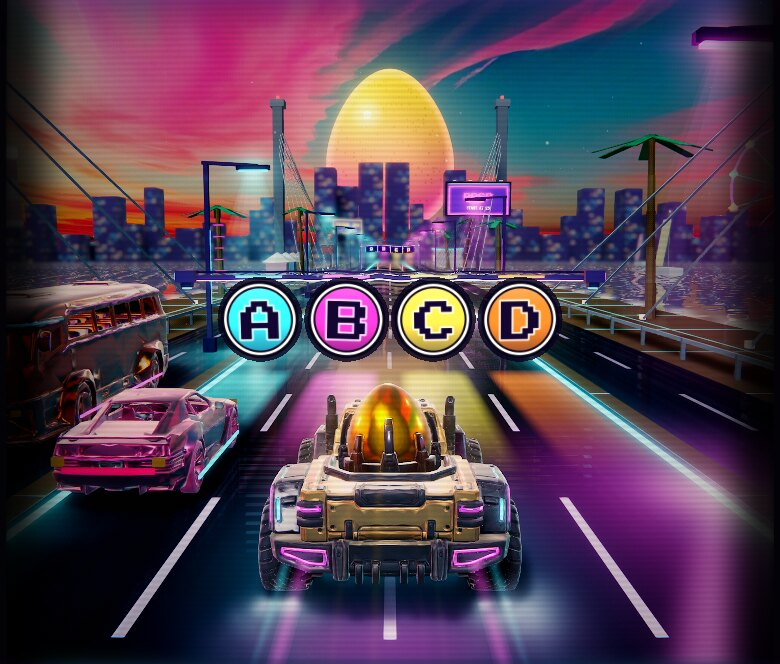
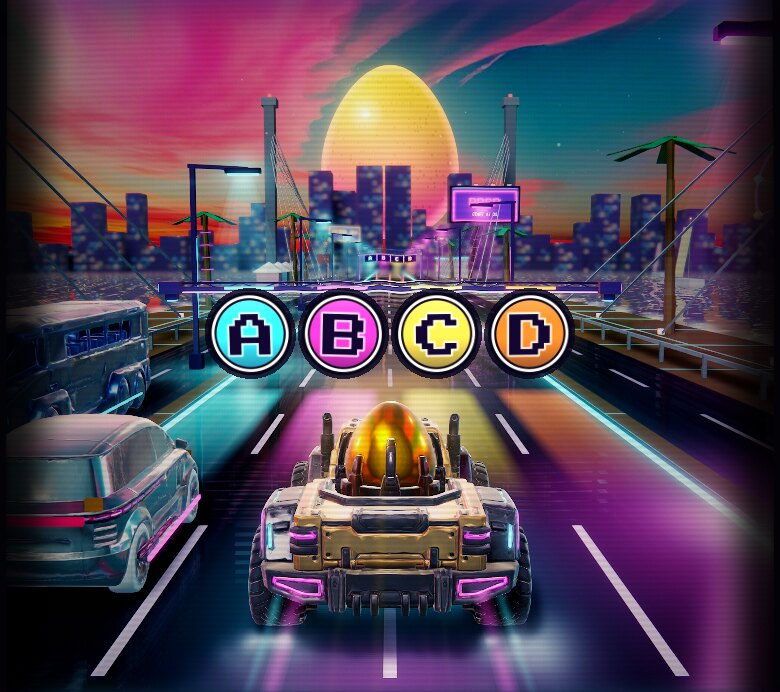
Traffic: fit the remade car and bus (Phase 6)
The car is a compact city car now, taller and shorter than the coupe it
replaced: its length 4.5 -> 3.6, with its own room in its lane, shadow and
badge box. Its red tail bar sits on the model's own light bar; corner lamps
stand on the skin of a rounded nose or tail, and a narrow nose's lamps go out
toward its corners. The manifest has the new file sizes. The traffic
scenario's paced car stands nearer (it is taller, and hid under a badge).
Re-captured the traffic by day, by night and a near miss. Served only: from
disk nothing changes. Regression racer IDENTICAL both ways.

Claude-Session: https://claude.ai/code/session_01SXN4PWw2h7NprrScNwTTGU

diff --git a/arcade/src/js/03a-files.js b/arcade/src/js/03a-files.js
@@ -1,3 +1,3 @@
 // Written by tools/manifest.js: every file under arcade/assets the page may fetch (and its size), the cues inside each
 // sound sprite ([start, length, level, how far the music ducks]), the music and its loop points, and what each screen needs.
-const INR_FILES = {"files":{"audio/music-blaster.mp3":1070543,"audio/music-boss.mp3":1117563,"audio/music-calm.mp3":981204,"audio/music-exam.mp3":1020910,"audio/music-finalboss.mp3":1172420,"audio/music-hub.mp3":1064273,"audio/music-memory.mp3":1163538,"audio/music-racer.mp3":834396,"audio/music-title.mp3":980681,"audio/sfx-bosses.mp3":1370010,"audio/sfx-combat.mp3":1142535,"audio/sfx-core.mp3":1755473,"audio/sfx-hub.mp3":124387,"audio/sfx-racer.mp3":477301,"audio/voice.mp3":1300002,"models/boss-1.glb":3140792,"models/boss-10.glb":3796976,"models/boss-11.glb":3509160,"models/boss-2.glb":3566072,"models/boss-3.glb":3595764,"models/boss-4.glb":3348936,"models/boss-5.glb":3189180,"models/boss-6.glb":3595196,"models/boss-7.glb":4230104,"models/boss-8.glb":2816424,"models/boss-9.glb":3108684,"models/boss-all.glb":2599980,"models/demon.glb":3372816,"models/mini-proctor.glb":209468,"models/mini-starfighter.glb":299432,"models/mini-warrig.glb":342752,"models/prop-bus.glb":230192,"models/prop-cabinet.glb":593040,"models/prop-car.glb":207412,"models/prop-coin.glb":130000,"models/prop-deck.glb":299912,"models/prop-medal.glb":239160,"models/prop-podium.glb":259308,"models/prop-rock.glb":271552,"models/prop-rock2.glb":239280,"models/prop-ship-a.glb":282888,"models/prop-ship-b.glb":252920,"models/prop-ship-c.glb":258308,"models/prop-stand.glb":196180,"models/prop-tome.glb":232544,"models/prop-trophy.glb":216240,"models/prop-van.glb":200544,"models/prop-vault.glb":426808,"models/starfighter.glb":3274568,"models/warrig.glb":3043684,"sky/blaster-deep-1.webp":763694,"sky/blaster-deep-4.webp":1027402,"sky/blaster-deep-5.webp":758694,"sky/boss-storm-b.webp":192868,"sky/boss-storm.webp":941214,"sky/boss-void.webp":449726,"sky/exam-moon.webp":716746,"sky/guide-archive.webp":758564,"sky/hub-hall-b.webp":84256,"sky/hub-hall.webp":82552,"sky/racer-dawn.webp":150958,"sky/racer-day.webp":205800,"sky/racer-night.webp":412294,"sky/racer-sunset-b.webp":519706,"sky/racer-sunset.webp":284332,"sky/title-dusk-b.webp":461748,"sky/title-dusk.webp":216594,"sky/vault-gold.webp":710390,"ui/bosses.webp":84156,"ui/icons.webp":27040},"sprites":{"core":{"file":"audio/sfx-core.mp3","cues":{"impact_good":[[0.5,0.8,1.188,0],[1.37,0.8,0.9,0],[2.2401,0.4288,0.961,0],[2.7389,0.8,0.867,0]],"impact_big":[[3.6089,1.28,1.129,0.7],[4.959,0.8623,1.212,0.7],[5.8913,1.28,0.991,0.7],[7.2413,1.28,1,0.7]],"impact_reject":[[8.5914,0.5025,0.8,0],[9.1639,0.5686,0.631,0],[9.8025,0.6,1.05,0],[10.4726,0.5451,1.25,0]],"impact_hull":[[11.0877,0.88,1.053,0],[12.0378,0.88,0.841,0],[12.9878,0.88,0.9,0],[13.9378,0.88,1.083,0]],"impact_shield":[[14.8879,0.88,0.8,0],[15.8379,0.88,1.151,0],[16.788,0.5621,0.769,0],[17.42,0.88,0.841,0]],"impact_metal":[[18.3701,0.48,0.856,0],[18.9201,0.48,0.657,0],[19.4702,0.48,0.7,0],[20.0202,0.48,0.953,0]],"explosion_small":[[20.5703,1.2,1.318,0],[21.8403,1.2,0.85,0],[23.1104,1.2,1,0],[24.3804,1.2,0.81,0]],"explosion_big":[[25.6505,2.2,1.351,0.6],[27.9205,2.2,1.245,0.6],[30.1905,2.0646,1,0.6],[32.3251,2.2,0.989,0.6]],"explosion_huge":[[34.5952,3.56,0.908,0.45],[38.2252,3.56,1,0.45],[41.8553,3.56,1.081,0.45]],"debris":[[45.4853,0.7887,0.6,0],[46.344,1.1321,0.698,0],[47.5461,1.48,0.591,0],[49.0961,1.48,0.96,0]],"charge_up":[[50.6462,0.5924,0.6,0],[51.3086,0.6803,0.743,0],[52.0589,0.6803,0.737,0],[52.8092,0.6803,0.576,0]],"charge_long":[[53.5595,1.6,0.664,0],[55.2295,1.6,0.566,0],[56.8996,1.6,0.65,0],[58.5696,1.6,0.738,0]],"warning":[[60.2397,0.6,0.576,0],[60.9097,0.6,0.877,0],[61.5798,0.6,0.6,0]],"lock_on":[[62.2498,0.48,0.567,0],[62.7999,0.48,0.497,0],[63.3499,0.48,0.5,0]],"slowmo_in":[[63.9,1.08,0.7,0],[65.05,1.08,0.889,0],[66.2,1.08,0.652,0]],"player_hit":[[67.3501,0.88,1.002,0],[68.3001,0.88,0.9,0],[69.2502,0.88,1.039,0],[70.2002,0.88,0.655,0]],"heart_lost":[[71.1503,0.8,0.802,0],[72.0203,0.8,0.55,0],[72.8904,0.8,0.7,0]],"shield_down":[[73.7604,0.7352,1.022,0],[74.5656,1,0.54,0],[75.6356,0.9544,0.75,0]],"reward":[[76.66,1.2,0.563,0],[77.9301,1.2,0.789,0],[79.2001,1.2,0.772,0],[80.4702,1.2,0.7,0]],"sting_correct":[[81.7402,0.8,0.6,0],[82.6103,0.8,0.467,0],[83.4803,0.8,0.758,0],[84.3504,0.8,0.65,0]],"sting_wrong":[[85.2204,0.6247,0.747,0],[85.9151,0.6803,0.444,0],[86.6654,0.4344,0.649,0],[87.1698,0.6803,0.6,0]],"ui_click":[[87.9201,0.48,0.64,0],[88.4701,0.121,0.413,0],[88.6612,0.48,0.283,0],[89.2112,0.2016,0.4,0]],"ui_select":[[89.4829,0.48,0.519,0],[90.0329,0.48,0.5,0],[90.5829,0.48,0.419,0]],"ui_back":[[91.133,0.3879,0.382,0],[91.5909,0.48,0.619,0],[92.141,0.48,0.45,0]],"coin_insert":[[92.691,1,0.7,0],[93.761,0.7125,0.904,0],[94.5436,1,0.656,0]],"powerup":[[95.6136,1,0.717,0],[96.6837,1,0.485,0],[97.7537,1,0.6,0]],"fanfare":[[98.8238,2,0.7,0],[100.8938,1.3249,0.888,0],[102.2888,2,0.58,0]],"gameover":[[104.3588,2.2,0.7,0],[106.6288,2.2,0.654,0],[108.8989,2.2,0.911,0]],"crowd_cheer":[[111.1689,2,0.522,0],[113.239,2,0.555,0],[115.309,2,0.55,0],[117.3791,2,0.641,0]],"alarm":[[119.5691,2.25,0.4,0]],"charge_hum":[[122.1291,3,0.4,0]],"boom":[[20.5703,1.2,1.318,0],[21.8403,1.2,0.85,0],[23.1104,1.2,1,0],[24.3804,1.2,0.81,0]],"bigboom":[[25.6505,2.2,1.351,0.6],[27.9205,2.2,1.245,0.6],[30.1905,2.0646,1,0.6],[32.3251,2.2,0.989,0.6]],"hit":[[67.3501,0.88,1.002,0],[68.3001,0.88,0.9,0],[69.2502,0.88,1.039,0],[70.2002,0.88,0.655,0]],"correct":[[81.7402,0.8,0.6,0],[82.6103,0.8,0.467,0],[83.4803,0.8,0.758,0],[84.3504,0.8,0.65,0]],"wrong":[[85.2204,0.6247,0.747,0],[85.9151,0.6803,0.444,0],[86.6654,0.4344,0.649,0],[87.1698,0.6803,0.6,0]],"coin":[[92.691,1,0.7,0],[93.761,0.7125,0.904,0],[94.5436,1,0.656,0]],"blip":[[87.9201,0.48,0.64,0],[88.4701,0.121,0.413,0],[88.6612,0.48,0.283,0],[89.2112,0.2016,0.4,0]],"select":[[89.4829,0.48,0.519,0],[90.0329,0.48,0.5,0],[90.5829,0.48,0.419,0]],"back":[[91.133,0.3879,0.382,0],[91.5909,0.48,0.619,0],[92.141,0.48,0.45,0]],"shield":[[14.8879,0.88,0.8,0],[15.8379,0.88,1.151,0],[16.788,0.5621,0.769,0],[17.42,0.88,0.841,0]],"win":[[98.8238,2,0.7,0],[100.8938,1.3249,0.888,0],[102.2888,2,0.58,0]],"demonboom":[[25.6505,2.2,1.351,0.6],[27.9205,2.2,1.245,0.6],[30.1905,2.0646,1,0.6],[32.3251,2.2,0.989,0.6]],"demonfinale":[[34.5952,3.56,0.908,0.45],[38.2252,3.56,1,0.45],[41.8553,3.56,1.081,0.45]],"demoncharge":[[50.6462,0.5924,0.6,0],[51.3086,0.6803,0.743,0],[52.0589,0.6803,0.737,0],[52.8092,0.6803,0.576,0]],"bossblast":[[34.5952,3.56,0.908,0.45],[38.2252,3.56,1,0.45],[41.8553,3.56,1.081,0.45]],"bosscharge":[[53.5595,1.6,0.664,0],[55.2295,1.6,0.566,0],[56.8996,1.6,0.65,0],[58.5696,1.6,0.738,0]],"shatter":[[71.1503,0.8,0.802,0],[72.0203,0.8,0.55,0],[72.8904,0.8,0.7,0]],"clunk":[[18.3701,0.48,0.856,0],[18.9201,0.48,0.657,0],[19.4702,0.48,0.7,0],[20.0202,0.48,0.953,0]]}},"combat":{"file":"audio/sfx-combat.mp3","cues":{"laser_fire":[[0.5,0.6803,0.716,0],[1.2503,0.6803,0.816,0],[2.0006,0.6803,0.635,0],[2.7509,0.6803,0.7,0]],"laser_heavy":[[3.5012,0.3983,1.235,0],[3.9695,1.2,0.85,0],[5.2396,1.2,1.134,0],[6.5096,1.2,0.587,0]],"plasma_fire":[[7.7797,0.3968,0.75,0],[8.2465,0.8,0.701,0],[9.1165,0.3136,1.074,0],[9.5001,0.8,0.926,0]],"shell":[[10.3702,0.3562,0.24,0],[10.7964,0.48,0.3,0],[11.3464,0.3549,0.32,0],[11.7714,0.4354,0.314,0]],"beam_fire":[[12.2768,1.6,0.996,0],[13.9468,1.6,0.878,0],[15.6169,1.6,0.632,0],[17.2869,1.6,0.8,0]],"missile_fire":[[18.957,1,0.89,0],[20.027,1,0.702,0],[21.0971,1,0.496,0],[22.1671,1,0.7,0]],"missile_hit":[[23.2371,1,0.602,0],[24.3072,1,0.828,0],[25.3772,0.5664,0.8,0],[26.0137,1,0.931,0]],"volley_fire":[[27.0837,1,0.89,0],[28.1538,1,1.066,0],[29.2238,1,0.75,0],[30.2939,1,0.591,0]],"wave_fire":[[31.3639,1.48,0.977,0],[32.9139,1.48,0.744,0],[34.464,1.2503,0.85,0],[35.7843,1.091,1.05,0]],"slam":[[36.9454,1.28,0.803,0],[38.2954,1.28,1,0],[39.6454,1.28,1.03,0],[40.9955,0.7954,1.281,0]],"boss_roar":[[41.8609,2.2,1.066,0.6],[44.131,2.2,1.06,0.6],[46.401,2.2,0.95,0.6],[48.6711,2.2,0.846,0.6]],"boss_hurt":[[50.9411,0.88,0.846,0],[51.8912,0.88,0.919,0],[52.8412,0.88,0.693,0],[53.7912,0.7878,0.8,0]],"boss_stagger":[[54.6491,0.8735,0.548,0],[55.5926,1.3102,0.82,0],[56.9727,1.1637,0.8,0],[58.2065,0.9167,0.888,0]],"boss_break":[[59.1932,1,0.74,0],[60.2633,0.5817,1.257,0],[60.915,1,1.004,0],[61.985,0.7122,0.8,0]],"boss_death":[[62.7673,3.2,1.016,0.5],[66.0373,3.2,1,0.5],[69.3074,3.2,0.919,0.5]],"warp":[[72.5774,1.6395,0.695,0],[74.2869,1.5159,0.7,0],[75.8727,1.2935,0.857,0]],"engine_ship":[[77.3563,4,0.35,0]],"laser":[[0.5,0.6803,0.716,0],[1.2503,0.6803,0.816,0],[2.0006,0.6803,0.635,0],[2.7509,0.6803,0.7,0]],"shot":[[7.7797,0.3968,0.75,0],[8.2465,0.8,0.701,0],[9.1165,0.3136,1.074,0],[9.5001,0.8,0.926,0]],"demonroar":[[41.8609,2.2,1.066,0.6],[44.131,2.2,1.06,0.6],[46.401,2.2,0.95,0.6],[48.6711,2.2,0.846,0.6]],"demonhit":[[50.9411,0.88,0.846,0],[51.8912,0.88,0.919,0],[52.8412,0.88,0.693,0],[53.7912,0.7878,0.8,0]],"demonshed":[[59.1932,1,0.74,0],[60.2633,0.5817,1.257,0],[60.915,1,1.004,0],[61.985,0.7122,0.8,0]],"demonbreak":[[59.1932,1,0.74,0],[60.2633,0.5817,1.257,0],[60.915,1,1.004,0],[61.985,0.7122,0.8,0]],"bossroar":[[41.8609,2.2,1.066,0.6],[44.131,2.2,1.06,0.6],[46.401,2.2,0.95,0.6],[48.6711,2.2,0.846,0.6]],"bosssmash":[[36.9454,1.28,0.803,0],[38.2954,1.28,1,0],[39.6454,1.28,1.03,0],[40.9955,0.7954,1.281,0]]}},"racer":{"file":"audio/sfx-racer.mp3","cues":{"crash":[[0.5,1.2,0.971,0],[1.77,1.2,1.085,0],[3.0401,1.2,1,0],[4.3101,1.2,1.126,0]],"crash_glass":[[5.5802,0.88,1.04,0],[6.5302,0.5965,0.944,0],[7.1968,0.88,0.702,0],[8.1468,0.88,0.8,0]],"skid":[[9.0968,1.2,0.74,0],[10.3669,1.2,0.698,0],[11.6369,1.2,0.721,0],[12.907,1.2,0.7,0]],"near_miss":[[14.177,0.6132,0.624,0],[14.8602,0.5831,0.6,0],[15.5134,0.6803,0.617,0],[16.2637,0.584,0.598,0]],"boost":[[16.9177,1.48,0.655,0],[18.4677,1.48,0.85,0],[20.0178,1.48,1.179,0],[21.5678,1.3965,1.349,0]],"gate_pass":[[23.0343,0.8,0.6,0],[23.9044,0.8,0.672,0],[24.7744,0.8,0.58,0],[25.6444,0.6858,0.817,0]],"engine_car":[[26.5202,4,0.4,0]],"boost_flame":[[30.8302,3,0.6,0]]}},"bosses":{"file":"audio/sfx-bosses.mp3","cues":{"roar_1":[[0.5,1.4253,0.95,0],[1.9953,2.4,0.914,0],[4.4653,2.4,1.143,0]],"roar_2":[[6.9354,2.4,1.073,0],[9.4054,2.4,0.95,0],[11.8755,2.4,0.888,0]],"roar_3":[[14.3455,2.4,0.761,0],[16.8156,2.0441,0.95,0],[18.9296,2.0109,1.223,0]],"roar_4":[[21.0106,2.4,0.95,0],[23.4806,2.3451,0.986,0],[25.8957,2.3711,0.925,0]],"roar_5":[[28.3368,2.4,1.05,0],[30.8069,1.956,0.879,0],[32.8329,1.6467,0.95,0]],"roar_6":[[34.5496,2.2382,0.975,0],[36.8579,2.4,0.95,0],[39.3279,2.4,0.91,0]],"roar_7":[[41.798,2.4,0.95,0],[44.268,2.0929,0.815,0],[46.4309,2.3395,1.077,0]],"roar_8":[[48.8404,1.2115,1.117,0],[50.1219,2.4,0.597,0],[52.592,2.4,0.95,0]],"roar_9":[[55.062,2.4,0.944,0],[57.532,2.4,0.95,0],[60.0021,2.4,1.371,0]],"roar_10":[[62.4721,2.4,0.69,0],[64.9422,2.4,1.019,0],[67.4122,2.4,0.95,0]],"roar_11":[[69.8823,1.9586,0.798,0],[71.9109,2.2792,0.95,0],[74.26,2.4,1.221,0]],"roar_all":[[76.7301,2.76,1.043,0],[79.5601,2.76,1,0],[82.3902,2.76,0.88,0]],"boss_land":[[85.2202,1.48,1,0],[86.7703,1.48,1.363,0],[88.3203,0.5899,1.016,0],[88.9802,1.48,0.946,0]],"boss_servo":[[90.5303,0.5033,0.484,0],[91.1036,0.5468,0.517,0],[91.7203,0.6803,0.45,0],[92.4706,0.6803,0.431,0]],"boss_power":[[93.2209,1.3683,0.7,0],[94.6592,1.2959,0.684,0],[96.025,1.6993,1.12,0]]}},"hub":{"file":"audio/sfx-hub.mp3","cues":{"hub_hum":[[0.62,8,0.5,0]]}},"voice":{"file":"audio/voice.mp3","cues":{"vo:$1 500 000":[[0.5,1.7779,1,0]],"vo:$100 000":[[2.3479,2.7178,1,0]],"vo:$250 000":[[5.1356,1.7738,1,0]],"vo:$500 000":[[6.9795,1.2373,1,0]],"vo:age 25 go":[[8.2867,1.9616,1,0]],"vo:announcer on":[[10.3184,1.0095,1,0]],"vo:begin":[[11.3979,0.9295,1,0]],"vo:blue chip":[[12.3973,0.9892,1,0]],"vo:boss defeated":[[13.4565,1.2051,1,0]],"vo:boss incoming":[[14.7316,1.7363,1,0]],"vo:boss rush":[[16.538,1.6046,1,0]],"vo:bull run":[[18.2126,0.9604,1,0]],"vo:chapter complete":[[19.243,1.106,1,0]],"vo:compounding":[[20.419,1.193,1,0]],"vo:critical":[[21.682,1.117,1,0]],"vo:deck cleared":[[22.869,1.39,1,0]],"vo:defeated":[[24.3291,1.1138,1,0]],"vo:enraged":[[25.5129,1.4505,1,0]],"vo:exam passed":[[27.0333,1.3676,1,0]],"vo:final boss":[[28.4709,1.318,1,0]],"vo:final boss destroyed":[[29.8589,2.75,1,0]],"vo:final exam":[[32.6789,1.8518,1,0]],"vo:final wave":[[34.6007,1.5771,1,0]],"vo:forced retirement":[[36.2478,1.4642,1,0]],"vo:game over":[[37.782,1.4106,1,0]],"vo:go":[[39.2626,0.6599,1,0]],"vo:group golem":[[39.9924,1.791,1,0]],"vo:happy retirement":[[41.8535,1.6602,1,0]],"vo:inflation titan":[[43.5837,2.43,1,0]],"vo:insert coin":[[46.0837,1.128,1,0]],"vo:last shield":[[47.2817,1.5958,1,0]],"vo:lightning":[[48.9475,1.15,1,0]],"vo:longevity lich":[[50.1676,1.5484,1,0]],"vo:lord intestate":[[51.786,1.7993,1,0]],"vo:memory bank":[[53.6553,1.1962,1,0]],"vo:millionaire":[[54.9215,1.6842,1,0]],"vo:nest egg run":[[56.6756,1.6205,1,0]],"vo:new high score":[[58.3661,1.7269,1,0]],"vo:not yet":[[60.163,0.933,1,0]],"vo:passed":[[61.1661,0.8735,1,0]],"vo:patrimony phantom":[[62.1095,1.8513,1,0]],"vo:perfect":[[64.0308,0.9316,1,0]],"vo:perilmonger":[[65.0324,1.47,1,0]],"vo:probate tollgate":[[66.5724,1.6925,1,0]],"vo:product pusher":[[68.3349,1.6875,1,0]],"vo:quick draw":[[70.0924,1.2579,1,0]],"vo:rank up":[[71.4204,1.07,1,0]],"vo:ready":[[72.5604,0.567,1,0]],"vo:retired a millionaire":[[73.1974,2.1487,1,0]],"vo:risk blaster":[[75.4161,1.8748,1,0]],"vo:select your game":[[77.3608,1.2985,1,0]],"vo:shield down":[[78.7294,1.2631,1,0]],"vo:solvency specter":[[80.0625,1.996,1,0]],"vo:stage clear":[[82.1285,1.3893,1,0]],"vo:strategy guide":[[83.5878,1.3867,1,0]],"vo:the fine print":[[85.0444,1.3475,1,0]],"vo:the proctor":[[86.4619,1.1939,1,0]],"vo:trophy unlocked":[[87.7258,1.2972,1,0]],"vo:undue influencer":[[89.093,2.3957,1,0]],"vo:warning":[[91.5587,0.65,1,0]],"vo:wave 1":[[92.2786,1.63,1,0]],"vo:wave 10":[[93.9787,1.1341,1,0]],"vo:wave 2":[[95.1828,0.9793,1,0]],"vo:wave 3":[[96.2322,1.47,1,0]],"vo:wave 4":[[97.7722,1.2106,1,0]],"vo:wave 5":[[99.0528,1.3478,1,0]],"vo:wave 6":[[100.4706,1.4679,1,0]],"vo:wave 7":[[102.0085,1.1244,1,0]],"vo:wave 8":[[103.2029,1.55,1,0]],"vo:wave 9":[[104.823,1.4247,1,0]],"vo:welcome":[[106.3176,1.87,1,0]],"vo:stand by":[[14.7316,1.7363,1,0]]}}},"music":{"exam":{"file":"audio/music-exam.mp3","loop":[0.7,50.7104],"vol":1},"memory":{"file":"audio/music-memory.mp3","loop":[0.7,57.8497],"vol":1},"title":{"file":"audio/music-title.mp3","loop":[0.7,48.7048],"vol":1},"hub":{"file":"audio/music-hub.mp3","loop":[0.7,52.8853],"vol":1},"calm":{"file":"audio/music-calm.mp3","loop":[0.7,48.718],"vol":1},"boss":{"file":"audio/music-boss.mp3","loop":[0.7,55.5493],"vol":1},"finalboss":{"file":"audio/music-finalboss.mp3","loop":[0.7,58.277],"vol":1},"racer":{"file":"audio/music-racer.mp3","loop":[0.7,41.3918],"vol":1},"blaster":{"file":"audio/music-blaster.mp3","loop":[0.7,53.2],"vol":1}},"sets":{"blaster":["model:starfighter","model:demon","model:prop-ship-a","model:prop-ship-b","model:prop-ship-c","model:prop-rock","model:prop-rock2","sky:blaster-deep-1","sky:blaster-deep-4","sky:blaster-deep-5","sfx:core","sfx:combat","sfx:voice","music:blaster"],"racer":["model:warrig","model:prop-car","model:prop-van","model:prop-bus","sky:racer-dawn","sky:racer-day","sky:racer-sunset","sky:racer-sunset-b","sky:racer-night","sfx:core","sfx:racer","sfx:voice","music:racer"],"boss":["sky:boss-storm","sky:boss-storm-b","sky:boss-void","sfx:core","sfx:combat","sfx:bosses","sfx:voice","music:boss","music:finalboss"],"hub":["model:prop-cabinet","model:mini-starfighter","model:mini-warrig","model:mini-proctor","model:prop-deck","model:prop-podium","model:prop-tome","model:prop-trophy","model:prop-medal","model:prop-coin","model:prop-stand","model:prop-vault","sky:hub-hall","sky:hub-hall-b","ui:bosses","ui:icons"],"hubsound":["sfx:core","sfx:hub","sfx:voice","music:hub"],"title":["sky:title-dusk","sky:title-dusk-b","sfx:core","sfx:voice","music:title"],"memory":["sky:vault-gold","model:prop-deck","model:prop-coin","sfx:core","sfx:voice","music:memory"],"exam":["sky:exam-moon","model:prop-podium","sfx:core","sfx:combat","sfx:voice","music:exam"],"guide":["sky:guide-archive","model:prop-tome","sfx:core","music:calm"]}};
+const INR_FILES = {"files":{"audio/music-blaster.mp3":1070543,"audio/music-boss.mp3":1117563,"audio/music-calm.mp3":981204,"audio/music-exam.mp3":1020910,"audio/music-finalboss.mp3":1172420,"audio/music-hub.mp3":1064273,"audio/music-memory.mp3":1163538,"audio/music-racer.mp3":834396,"audio/music-title.mp3":980681,"audio/sfx-bosses.mp3":1370010,"audio/sfx-combat.mp3":1142535,"audio/sfx-core.mp3":1755473,"audio/sfx-hub.mp3":124387,"audio/sfx-racer.mp3":477301,"audio/voice.mp3":1300002,"models/boss-1.glb":3140792,"models/boss-10.glb":3796976,"models/boss-11.glb":3509160,"models/boss-2.glb":3566072,"models/boss-3.glb":3595764,"models/boss-4.glb":3348936,"models/boss-5.glb":3189180,"models/boss-6.glb":3595196,"models/boss-7.glb":4230104,"models/boss-8.glb":2816424,"models/boss-9.glb":3108684,"models/boss-all.glb":2599980,"models/demon.glb":3372816,"models/mini-proctor.glb":209468,"models/mini-starfighter.glb":299432,"models/mini-warrig.glb":342752,"models/prop-bus.glb":223360,"models/prop-cabinet.glb":593040,"models/prop-car.glb":199868,"models/prop-coin.glb":130000,"models/prop-deck.glb":299912,"models/prop-medal.glb":239160,"models/prop-podium.glb":259308,"models/prop-rock.glb":271552,"models/prop-rock2.glb":239280,"models/prop-ship-a.glb":282888,"models/prop-ship-b.glb":252920,"models/prop-ship-c.glb":258308,"models/prop-stand.glb":196180,"models/prop-tome.glb":232544,"models/prop-trophy.glb":216240,"models/prop-van.glb":200544,"models/prop-vault.glb":426808,"models/starfighter.glb":3274568,"models/warrig.glb":3043684,"sky/blaster-deep-1.webp":763694,"sky/blaster-deep-4.webp":1027402,"sky/blaster-deep-5.webp":758694,"sky/boss-storm-b.webp":192868,"sky/boss-storm.webp":941214,"sky/boss-void.webp":449726,"sky/exam-moon.webp":716746,"sky/guide-archive.webp":758564,"sky/hub-hall-b.webp":84256,"sky/hub-hall.webp":82552,"sky/racer-dawn.webp":150958,"sky/racer-day.webp":205800,"sky/racer-night.webp":412294,"sky/racer-sunset-b.webp":519706,"sky/racer-sunset.webp":284332,"sky/title-dusk-b.webp":461748,"sky/title-dusk.webp":216594,"sky/vault-gold.webp":710390,"ui/bosses.webp":84156,"ui/icons.webp":27040},"sprites":{"core":{"file":"audio/sfx-core.mp3","cues":{"impact_good":[[0.5,0.8,1.188,0],[1.37,0.8,0.9,0],[2.2401,0.4288,0.961,0],[2.7389,0.8,0.867,0]],"impact_big":[[3.6089,1.28,1.129,0.7],[4.959,0.8623,1.212,0.7],[5.8913,1.28,0.991,0.7],[7.2413,1.28,1,0.7]],"impact_reject":[[8.5914,0.5025,0.8,0],[9.1639,0.5686,0.631,0],[9.8025,0.6,1.05,0],[10.4726,0.5451,1.25,0]],"impact_hull":[[11.0877,0.88,1.053,0],[12.0378,0.88,0.841,0],[12.9878,0.88,0.9,0],[13.9378,0.88,1.083,0]],"impact_shield":[[14.8879,0.88,0.8,0],[15.8379,0.88,1.151,0],[16.788,0.5621,0.769,0],[17.42,0.88,0.841,0]],"impact_metal":[[18.3701,0.48,0.856,0],[18.9201,0.48,0.657,0],[19.4702,0.48,0.7,0],[20.0202,0.48,0.953,0]],"explosion_small":[[20.5703,1.2,1.318,0],[21.8403,1.2,0.85,0],[23.1104,1.2,1,0],[24.3804,1.2,0.81,0]],"explosion_big":[[25.6505,2.2,1.351,0.6],[27.9205,2.2,1.245,0.6],[30.1905,2.0646,1,0.6],[32.3251,2.2,0.989,0.6]],"explosion_huge":[[34.5952,3.56,0.908,0.45],[38.2252,3.56,1,0.45],[41.8553,3.56,1.081,0.45]],"debris":[[45.4853,0.7887,0.6,0],[46.344,1.1321,0.698,0],[47.5461,1.48,0.591,0],[49.0961,1.48,0.96,0]],"charge_up":[[50.6462,0.5924,0.6,0],[51.3086,0.6803,0.743,0],[52.0589,0.6803,0.737,0],[52.8092,0.6803,0.576,0]],"charge_long":[[53.5595,1.6,0.664,0],[55.2295,1.6,0.566,0],[56.8996,1.6,0.65,0],[58.5696,1.6,0.738,0]],"warning":[[60.2397,0.6,0.576,0],[60.9097,0.6,0.877,0],[61.5798,0.6,0.6,0]],"lock_on":[[62.2498,0.48,0.567,0],[62.7999,0.48,0.497,0],[63.3499,0.48,0.5,0]],"slowmo_in":[[63.9,1.08,0.7,0],[65.05,1.08,0.889,0],[66.2,1.08,0.652,0]],"player_hit":[[67.3501,0.88,1.002,0],[68.3001,0.88,0.9,0],[69.2502,0.88,1.039,0],[70.2002,0.88,0.655,0]],"heart_lost":[[71.1503,0.8,0.802,0],[72.0203,0.8,0.55,0],[72.8904,0.8,0.7,0]],"shield_down":[[73.7604,0.7352,1.022,0],[74.5656,1,0.54,0],[75.6356,0.9544,0.75,0]],"reward":[[76.66,1.2,0.563,0],[77.9301,1.2,0.789,0],[79.2001,1.2,0.772,0],[80.4702,1.2,0.7,0]],"sting_correct":[[81.7402,0.8,0.6,0],[82.6103,0.8,0.467,0],[83.4803,0.8,0.758,0],[84.3504,0.8,0.65,0]],"sting_wrong":[[85.2204,0.6247,0.747,0],[85.9151,0.6803,0.444,0],[86.6654,0.4344,0.649,0],[87.1698,0.6803,0.6,0]],"ui_click":[[87.9201,0.48,0.64,0],[88.4701,0.121,0.413,0],[88.6612,0.48,0.283,0],[89.2112,0.2016,0.4,0]],"ui_select":[[89.4829,0.48,0.519,0],[90.0329,0.48,0.5,0],[90.5829,0.48,0.419,0]],"ui_back":[[91.133,0.3879,0.382,0],[91.5909,0.48,0.619,0],[92.141,0.48,0.45,0]],"coin_insert":[[92.691,1,0.7,0],[93.761,0.7125,0.904,0],[94.5436,1,0.656,0]],"powerup":[[95.6136,1,0.717,0],[96.6837,1,0.485,0],[97.7537,1,0.6,0]],"fanfare":[[98.8238,2,0.7,0],[100.8938,1.3249,0.888,0],[102.2888,2,0.58,0]],"gameover":[[104.3588,2.2,0.7,0],[106.6288,2.2,0.654,0],[108.8989,2.2,0.911,0]],"crowd_cheer":[[111.1689,2,0.522,0],[113.239,2,0.555,0],[115.309,2,0.55,0],[117.3791,2,0.641,0]],"alarm":[[119.5691,2.25,0.4,0]],"charge_hum":[[122.1291,3,0.4,0]],"boom":[[20.5703,1.2,1.318,0],[21.8403,1.2,0.85,0],[23.1104,1.2,1,0],[24.3804,1.2,0.81,0]],"bigboom":[[25.6505,2.2,1.351,0.6],[27.9205,2.2,1.245,0.6],[30.1905,2.0646,1,0.6],[32.3251,2.2,0.989,0.6]],"hit":[[67.3501,0.88,1.002,0],[68.3001,0.88,0.9,0],[69.2502,0.88,1.039,0],[70.2002,0.88,0.655,0]],"correct":[[81.7402,0.8,0.6,0],[82.6103,0.8,0.467,0],[83.4803,0.8,0.758,0],[84.3504,0.8,0.65,0]],"wrong":[[85.2204,0.6247,0.747,0],[85.9151,0.6803,0.444,0],[86.6654,0.4344,0.649,0],[87.1698,0.6803,0.6,0]],"coin":[[92.691,1,0.7,0],[93.761,0.7125,0.904,0],[94.5436,1,0.656,0]],"blip":[[87.9201,0.48,0.64,0],[88.4701,0.121,0.413,0],[88.6612,0.48,0.283,0],[89.2112,0.2016,0.4,0]],"select":[[89.4829,0.48,0.519,0],[90.0329,0.48,0.5,0],[90.5829,0.48,0.419,0]],"back":[[91.133,0.3879,0.382,0],[91.5909,0.48,0.619,0],[92.141,0.48,0.45,0]],"shield":[[14.8879,0.88,0.8,0],[15.8379,0.88,1.151,0],[16.788,0.5621,0.769,0],[17.42,0.88,0.841,0]],"win":[[98.8238,2,0.7,0],[100.8938,1.3249,0.888,0],[102.2888,2,0.58,0]],"demonboom":[[25.6505,2.2,1.351,0.6],[27.9205,2.2,1.245,0.6],[30.1905,2.0646,1,0.6],[32.3251,2.2,0.989,0.6]],"demonfinale":[[34.5952,3.56,0.908,0.45],[38.2252,3.56,1,0.45],[41.8553,3.56,1.081,0.45]],"demoncharge":[[50.6462,0.5924,0.6,0],[51.3086,0.6803,0.743,0],[52.0589,0.6803,0.737,0],[52.8092,0.6803,0.576,0]],"bossblast":[[34.5952,3.56,0.908,0.45],[38.2252,3.56,1,0.45],[41.8553,3.56,1.081,0.45]],"bosscharge":[[53.5595,1.6,0.664,0],[55.2295,1.6,0.566,0],[56.8996,1.6,0.65,0],[58.5696,1.6,0.738,0]],"shatter":[[71.1503,0.8,0.802,0],[72.0203,0.8,0.55,0],[72.8904,0.8,0.7,0]],"clunk":[[18.3701,0.48,0.856,0],[18.9201,0.48,0.657,0],[19.4702,0.48,0.7,0],[20.0202,0.48,0.953,0]]}},"combat":{"file":"audio/sfx-combat.mp3","cues":{"laser_fire":[[0.5,0.6803,0.716,0],[1.2503,0.6803,0.816,0],[2.0006,0.6803,0.635,0],[2.7509,0.6803,0.7,0]],"laser_heavy":[[3.5012,0.3983,1.235,0],[3.9695,1.2,0.85,0],[5.2396,1.2,1.134,0],[6.5096,1.2,0.587,0]],"plasma_fire":[[7.7797,0.3968,0.75,0],[8.2465,0.8,0.701,0],[9.1165,0.3136,1.074,0],[9.5001,0.8,0.926,0]],"shell":[[10.3702,0.3562,0.24,0],[10.7964,0.48,0.3,0],[11.3464,0.3549,0.32,0],[11.7714,0.4354,0.314,0]],"beam_fire":[[12.2768,1.6,0.996,0],[13.9468,1.6,0.878,0],[15.6169,1.6,0.632,0],[17.2869,1.6,0.8,0]],"missile_fire":[[18.957,1,0.89,0],[20.027,1,0.702,0],[21.0971,1,0.496,0],[22.1671,1,0.7,0]],"missile_hit":[[23.2371,1,0.602,0],[24.3072,1,0.828,0],[25.3772,0.5664,0.8,0],[26.0137,1,0.931,0]],"volley_fire":[[27.0837,1,0.89,0],[28.1538,1,1.066,0],[29.2238,1,0.75,0],[30.2939,1,0.591,0]],"wave_fire":[[31.3639,1.48,0.977,0],[32.9139,1.48,0.744,0],[34.464,1.2503,0.85,0],[35.7843,1.091,1.05,0]],"slam":[[36.9454,1.28,0.803,0],[38.2954,1.28,1,0],[39.6454,1.28,1.03,0],[40.9955,0.7954,1.281,0]],"boss_roar":[[41.8609,2.2,1.066,0.6],[44.131,2.2,1.06,0.6],[46.401,2.2,0.95,0.6],[48.6711,2.2,0.846,0.6]],"boss_hurt":[[50.9411,0.88,0.846,0],[51.8912,0.88,0.919,0],[52.8412,0.88,0.693,0],[53.7912,0.7878,0.8,0]],"boss_stagger":[[54.6491,0.8735,0.548,0],[55.5926,1.3102,0.82,0],[56.9727,1.1637,0.8,0],[58.2065,0.9167,0.888,0]],"boss_break":[[59.1932,1,0.74,0],[60.2633,0.5817,1.257,0],[60.915,1,1.004,0],[61.985,0.7122,0.8,0]],"boss_death":[[62.7673,3.2,1.016,0.5],[66.0373,3.2,1,0.5],[69.3074,3.2,0.919,0.5]],"warp":[[72.5774,1.6395,0.695,0],[74.2869,1.5159,0.7,0],[75.8727,1.2935,0.857,0]],"engine_ship":[[77.3563,4,0.35,0]],"laser":[[0.5,0.6803,0.716,0],[1.2503,0.6803,0.816,0],[2.0006,0.6803,0.635,0],[2.7509,0.6803,0.7,0]],"shot":[[7.7797,0.3968,0.75,0],[8.2465,0.8,0.701,0],[9.1165,0.3136,1.074,0],[9.5001,0.8,0.926,0]],"demonroar":[[41.8609,2.2,1.066,0.6],[44.131,2.2,1.06,0.6],[46.401,2.2,0.95,0.6],[48.6711,2.2,0.846,0.6]],"demonhit":[[50.9411,0.88,0.846,0],[51.8912,0.88,0.919,0],[52.8412,0.88,0.693,0],[53.7912,0.7878,0.8,0]],"demonshed":[[59.1932,1,0.74,0],[60.2633,0.5817,1.257,0],[60.915,1,1.004,0],[61.985,0.7122,0.8,0]],"demonbreak":[[59.1932,1,0.74,0],[60.2633,0.5817,1.257,0],[60.915,1,1.004,0],[61.985,0.7122,0.8,0]],"bossroar":[[41.8609,2.2,1.066,0.6],[44.131,2.2,1.06,0.6],[46.401,2.2,0.95,0.6],[48.6711,2.2,0.846,0.6]],"bosssmash":[[36.9454,1.28,0.803,0],[38.2954,1.28,1,0],[39.6454,1.28,1.03,0],[40.9955,0.7954,1.281,0]]}},"racer":{"file":"audio/sfx-racer.mp3","cues":{"crash":[[0.5,1.2,0.971,0],[1.77,1.2,1.085,0],[3.0401,1.2,1,0],[4.3101,1.2,1.126,0]],"crash_glass":[[5.5802,0.88,1.04,0],[6.5302,0.5965,0.944,0],[7.1968,0.88,0.702,0],[8.1468,0.88,0.8,0]],"skid":[[9.0968,1.2,0.74,0],[10.3669,1.2,0.698,0],[11.6369,1.2,0.721,0],[12.907,1.2,0.7,0]],"near_miss":[[14.177,0.6132,0.624,0],[14.8602,0.5831,0.6,0],[15.5134,0.6803,0.617,0],[16.2637,0.584,0.598,0]],"boost":[[16.9177,1.48,0.655,0],[18.4677,1.48,0.85,0],[20.0178,1.48,1.179,0],[21.5678,1.3965,1.349,0]],"gate_pass":[[23.0343,0.8,0.6,0],[23.9044,0.8,0.672,0],[24.7744,0.8,0.58,0],[25.6444,0.6858,0.817,0]],"engine_car":[[26.5202,4,0.4,0]],"boost_flame":[[30.8302,3,0.6,0]]}},"bosses":{"file":"audio/sfx-bosses.mp3","cues":{"roar_1":[[0.5,1.4253,0.95,0],[1.9953,2.4,0.914,0],[4.4653,2.4,1.143,0]],"roar_2":[[6.9354,2.4,1.073,0],[9.4054,2.4,0.95,0],[11.8755,2.4,0.888,0]],"roar_3":[[14.3455,2.4,0.761,0],[16.8156,2.0441,0.95,0],[18.9296,2.0109,1.223,0]],"roar_4":[[21.0106,2.4,0.95,0],[23.4806,2.3451,0.986,0],[25.8957,2.3711,0.925,0]],"roar_5":[[28.3368,2.4,1.05,0],[30.8069,1.956,0.879,0],[32.8329,1.6467,0.95,0]],"roar_6":[[34.5496,2.2382,0.975,0],[36.8579,2.4,0.95,0],[39.3279,2.4,0.91,0]],"roar_7":[[41.798,2.4,0.95,0],[44.268,2.0929,0.815,0],[46.4309,2.3395,1.077,0]],"roar_8":[[48.8404,1.2115,1.117,0],[50.1219,2.4,0.597,0],[52.592,2.4,0.95,0]],"roar_9":[[55.062,2.4,0.944,0],[57.532,2.4,0.95,0],[60.0021,2.4,1.371,0]],"roar_10":[[62.4721,2.4,0.69,0],[64.9422,2.4,1.019,0],[67.4122,2.4,0.95,0]],"roar_11":[[69.8823,1.9586,0.798,0],[71.9109,2.2792,0.95,0],[74.26,2.4,1.221,0]],"roar_all":[[76.7301,2.76,1.043,0],[79.5601,2.76,1,0],[82.3902,2.76,0.88,0]],"boss_land":[[85.2202,1.48,1,0],[86.7703,1.48,1.363,0],[88.3203,0.5899,1.016,0],[88.9802,1.48,0.946,0]],"boss_servo":[[90.5303,0.5033,0.484,0],[91.1036,0.5468,0.517,0],[91.7203,0.6803,0.45,0],[92.4706,0.6803,0.431,0]],"boss_power":[[93.2209,1.3683,0.7,0],[94.6592,1.2959,0.684,0],[96.025,1.6993,1.12,0]]}},"hub":{"file":"audio/sfx-hub.mp3","cues":{"hub_hum":[[0.62,8,0.5,0]]}},"voice":{"file":"audio/voice.mp3","cues":{"vo:$1 500 000":[[0.5,1.7779,1,0]],"vo:$100 000":[[2.3479,2.7178,1,0]],"vo:$250 000":[[5.1356,1.7738,1,0]],"vo:$500 000":[[6.9795,1.2373,1,0]],"vo:age 25 go":[[8.2867,1.9616,1,0]],"vo:announcer on":[[10.3184,1.0095,1,0]],"vo:begin":[[11.3979,0.9295,1,0]],"vo:blue chip":[[12.3973,0.9892,1,0]],"vo:boss defeated":[[13.4565,1.2051,1,0]],"vo:boss incoming":[[14.7316,1.7363,1,0]],"vo:boss rush":[[16.538,1.6046,1,0]],"vo:bull run":[[18.2126,0.9604,1,0]],"vo:chapter complete":[[19.243,1.106,1,0]],"vo:compounding":[[20.419,1.193,1,0]],"vo:critical":[[21.682,1.117,1,0]],"vo:deck cleared":[[22.869,1.39,1,0]],"vo:defeated":[[24.3291,1.1138,1,0]],"vo:enraged":[[25.5129,1.4505,1,0]],"vo:exam passed":[[27.0333,1.3676,1,0]],"vo:final boss":[[28.4709,1.318,1,0]],"vo:final boss destroyed":[[29.8589,2.75,1,0]],"vo:final exam":[[32.6789,1.8518,1,0]],"vo:final wave":[[34.6007,1.5771,1,0]],"vo:forced retirement":[[36.2478,1.4642,1,0]],"vo:game over":[[37.782,1.4106,1,0]],"vo:go":[[39.2626,0.6599,1,0]],"vo:group golem":[[39.9924,1.791,1,0]],"vo:happy retirement":[[41.8535,1.6602,1,0]],"vo:inflation titan":[[43.5837,2.43,1,0]],"vo:insert coin":[[46.0837,1.128,1,0]],"vo:last shield":[[47.2817,1.5958,1,0]],"vo:lightning":[[48.9475,1.15,1,0]],"vo:longevity lich":[[50.1676,1.5484,1,0]],"vo:lord intestate":[[51.786,1.7993,1,0]],"vo:memory bank":[[53.6553,1.1962,1,0]],"vo:millionaire":[[54.9215,1.6842,1,0]],"vo:nest egg run":[[56.6756,1.6205,1,0]],"vo:new high score":[[58.3661,1.7269,1,0]],"vo:not yet":[[60.163,0.933,1,0]],"vo:passed":[[61.1661,0.8735,1,0]],"vo:patrimony phantom":[[62.1095,1.8513,1,0]],"vo:perfect":[[64.0308,0.9316,1,0]],"vo:perilmonger":[[65.0324,1.47,1,0]],"vo:probate tollgate":[[66.5724,1.6925,1,0]],"vo:product pusher":[[68.3349,1.6875,1,0]],"vo:quick draw":[[70.0924,1.2579,1,0]],"vo:rank up":[[71.4204,1.07,1,0]],"vo:ready":[[72.5604,0.567,1,0]],"vo:retired a millionaire":[[73.1974,2.1487,1,0]],"vo:risk blaster":[[75.4161,1.8748,1,0]],"vo:select your game":[[77.3608,1.2985,1,0]],"vo:shield down":[[78.7294,1.2631,1,0]],"vo:solvency specter":[[80.0625,1.996,1,0]],"vo:stage clear":[[82.1285,1.3893,1,0]],"vo:strategy guide":[[83.5878,1.3867,1,0]],"vo:the fine print":[[85.0444,1.3475,1,0]],"vo:the proctor":[[86.4619,1.1939,1,0]],"vo:trophy unlocked":[[87.7258,1.2972,1,0]],"vo:undue influencer":[[89.093,2.3957,1,0]],"vo:warning":[[91.5587,0.65,1,0]],"vo:wave 1":[[92.2786,1.63,1,0]],"vo:wave 10":[[93.9787,1.1341,1,0]],"vo:wave 2":[[95.1828,0.9793,1,0]],"vo:wave 3":[[96.2322,1.47,1,0]],"vo:wave 4":[[97.7722,1.2106,1,0]],"vo:wave 5":[[99.0528,1.3478,1,0]],"vo:wave 6":[[100.4706,1.4679,1,0]],"vo:wave 7":[[102.0085,1.1244,1,0]],"vo:wave 8":[[103.2029,1.55,1,0]],"vo:wave 9":[[104.823,1.4247,1,0]],"vo:welcome":[[106.3176,1.87,1,0]],"vo:stand by":[[14.7316,1.7363,1,0]]}}},"music":{"exam":{"file":"audio/music-exam.mp3","loop":[0.7,50.7104],"vol":1},"memory":{"file":"audio/music-memory.mp3","loop":[0.7,57.8497],"vol":1},"title":{"file":"audio/music-title.mp3","loop":[0.7,48.7048],"vol":1},"hub":{"file":"audio/music-hub.mp3","loop":[0.7,52.8853],"vol":1},"calm":{"file":"audio/music-calm.mp3","loop":[0.7,48.718],"vol":1},"boss":{"file":"audio/music-boss.mp3","loop":[0.7,55.5493],"vol":1},"finalboss":{"file":"audio/music-finalboss.mp3","loop":[0.7,58.277],"vol":1},"racer":{"file":"audio/music-racer.mp3","loop":[0.7,41.3918],"vol":1},"blaster":{"file":"audio/music-blaster.mp3","loop":[0.7,53.2],"vol":1}},"sets":{"blaster":["model:starfighter","model:demon","model:prop-ship-a","model:prop-ship-b","model:prop-ship-c","model:prop-rock","model:prop-rock2","sky:blaster-deep-1","sky:blaster-deep-4","sky:blaster-deep-5","sfx:core","sfx:combat","sfx:voice","music:blaster"],"racer":["model:warrig","model:prop-car","model:prop-van","model:prop-bus","sky:racer-dawn","sky:racer-day","sky:racer-sunset","sky:racer-sunset-b","sky:racer-night","sfx:core","sfx:racer","sfx:voice","music:racer"],"boss":["sky:boss-storm","sky:boss-storm-b","sky:boss-void","sfx:core","sfx:combat","sfx:bosses","sfx:voice","music:boss","music:finalboss"],"hub":["model:prop-cabinet","model:mini-starfighter","model:mini-warrig","model:mini-proctor","model:prop-deck","model:prop-podium","model:prop-tome","model:prop-trophy","model:prop-medal","model:prop-coin","model:prop-stand","model:prop-vault","sky:hub-hall","sky:hub-hall-b","ui:bosses","ui:icons"],"hubsound":["sfx:core","sfx:hub","sfx:voice","music:hub"],"title":["sky:title-dusk","sky:title-dusk-b","sfx:core","sfx:voice","music:title"],"memory":["sky:vault-gold","model:prop-deck","model:prop-coin","sfx:core","sfx:voice","music:memory"],"exam":["sky:exam-moon","model:prop-podium","sfx:core","sfx:combat","sfx:voice","music:exam"],"guide":["sky:guide-archive","model:prop-tome","sfx:core","music:calm"]}};

diff --git a/arcade/src/js/21c-racerworld.js b/arcade/src/js/21c-racerworld.js
@@ -251,9 +251,12 @@ const RACER_FLEET = { sedan: 14, truck: 6, bus: 4, bike: 8, hover: 14, police: 1
 // a red bar across its tail brightens when it brakes, amber corners blink, a line of neon runs along each sill. They
 // mirror the sky and take its rims of light as the rig does. Without them (from disk, or a file that failed, or no
 // panorama to light them) every kind is drawn as before. [model, length in game units]
-const RACER_GEN_FLEET = { sedan: ["prop-car", 4.5], truck: ["prop-van", 6.0], bus: ["prop-bus", 8.4] };
+const RACER_GEN_FLEET = { sedan: ["prop-car", 3.6], truck: ["prop-van", 6.0], bus: ["prop-bus", 8.4] };
+// (the car is a compact city car, taller and shorter than the coupe it replaced: the room it takes in its lane, its
+// soft shadow and the box that is checked against the lane badges are its own, not the coupe's)
+const RACER_GEN_DIM = { sedan: { sh: [3.4, 5.3], box: [1.0, 1.7, 1.8] } };
 // Where its lamps go, as shares of the model's own height: tail bar, nose lamps, sill line; and its extra lamps.
-const RACER_GEN_TRIM = { sedan: { tail: 0.47, head: 0.4, sill: 0.2 }, truck: { tail: 0.3, head: 0.3, sill: 0.17, roof: 1 }, bus: { tail: 0.28, head: 0.26, sill: 0.15, sign: 1 } };
+const RACER_GEN_TRIM = { sedan: { tail: 0.58, head: 0.4, sill: 0.2 }, truck: { tail: 0.3, head: 0.3, sill: 0.17, roof: 1 }, bus: { tail: 0.28, head: 0.26, sill: 0.15, sign: 1 } };
 // Lamps for a generated vehicle (drawn with racerTrafficMaterial's light channels, over the model): each one placed on
 // the model's own surface, found from its vertices (the rear face at the tail bar's height, and so on).
 function racerGenTrim(type, geo) {
@@ -268,13 +271,16 @@ function racerGenTrim(type, geo) {
     return { z, w };
   };
   const side = (y, band) => { let w = 0; for (let i = 0; i < P.length; i += 3) if (Math.abs(P[i + 1] - y) < band && Math.abs(P[i + 2]) < len * 0.3) w = Math.max(w, Math.abs(P[i])); return w; };
+  // (and how far it reaches there round one x: a lamp at the corner of a rounded nose or tail stands on its skin, not
+  // inside it, where the shape's farthest point at the middle would bury it)
+  const at = (sgn, y, band, x, hw, z0) => { let z = sgn > 0 ? -1e9 : 1e9; for (let i = 0; i < P.length; i += 3) if (Math.abs(P[i + 1] - y) < band && Math.abs(P[i] - x) < hw) { const zz = P[i + 2]; if (sgn > 0 ? zz > z : zz < z) z = zz; } return Math.abs(z) < 1e8 ? z : z0; };
   const yt = bb.min.y + H * T.tail, yh = bb.min.y + H * T.head, ys = bb.min.y + H * T.sill;
-  const rear = face(1, yt, H * 0.06), nose = face(-1, yh, H * 0.06), sw = side(ys, H * 0.05);
+  const rear = face(1, yt, H * 0.06), nose = face(-1, yh, H * 0.06), sw = side(ys, H * 0.05), nw = Math.max(nose.w, sw * 0.8); // (a rounded nose is narrow at its tip: its lamps go out toward its corners)
   L(2, rear.w * 1.5, 0.075, 0.05, 0, yt, rear.z + 0.03, 0xff1030, 2.4); // the tail bar (brightens under braking)
   [-1, 1].forEach((s) => {
-    L(4, 0.16, 0.12, 0.05, s * (rear.w * 0.82), yt + 0.12, rear.z + 0.02, 0xffa53d, 3); // indicators, tail corners
-    L(4, 0.16, 0.1, 0.05, s * (nose.w * 0.86), yh + 0.1, nose.z - 0.02, 0xffa53d, 3); // and nose corners
-    L(1, nose.w * 0.42, 0.07, 0.05, s * nose.w * 0.4, yh, nose.z - 0.03, 0xfff2d8, 4.5); // the nose lamps
+    L(4, 0.16, 0.12, 0.05, s * (rear.w * 0.82), yt + 0.12, at(1, yt + 0.12, H * 0.06, s * rear.w * 0.82, 0.1, rear.z) + 0.02, 0xffa53d, 3); // indicators, tail corners
+    L(4, 0.16, 0.1, 0.05, s * (nw * 0.86), yh + 0.1, at(-1, yh + 0.1, H * 0.06, s * nw * 0.86, 0.1, nose.z) - 0.02, 0xffa53d, 3); // and nose corners
+    L(1, nw * 0.42, 0.07, 0.05, s * nw * 0.4, yh, at(-1, yh, H * 0.06, s * nw * 0.4, nw * 0.21, nose.z) - 0.03, 0xfff2d8, 4.5); // the nose lamps
     L(10, 0.03, 0.05, len * 0.62, s * (sw + 0.025), ys, 0, 0xffffff, 1); // a line of neon along the sill
   });
   if (T.roof) { const top = face(-1, bb.max.y - H * 0.06, H * 0.05); [-0.6, -0.2, 0.2, 0.6].forEach((x) => L(8, 0.14, 0.06, 0.05, x * top.w, bb.max.y - H * 0.05, top.z - 0.02, 0xffa53d, 2.6)); }
@@ -424,6 +430,7 @@ class RacerWorld {
   // scaled to its length, set on its wheels; its material; its lamps. (Shared by every copy of the kind.)
   genKind(type, model) {
     const [, len] = RACER_GEN_FLEET[type];
+    if (RACER_GEN_DIM[type]) (this.genDim = this.genDim || {})[type] = RACER_GEN_DIM[type];
     tuneModel(model, { glow: 2.0, metal: 1.0, rough: 1.0, normal: 0.85 });
     const made = modelGeometry(model, new THREE.Matrix4().makeRotationY(Math.PI));
     if (!made) return null;
@@ -460,7 +467,7 @@ class RacerWorld {
   }
   underBadge(c, rings) {
     // the car's box on the screen (its eight corners), against each badge's circle
-    const cam = this.g.camera, D = { bus: [1.6, 2.9, 4.2], truck: [1.3, 3.0, 3.0], bike: [0.3, 1.6, 0.8], sedan: [1.0, 1.4, 2.3] }[c.type] || [1.0, 1.4, 2.3], v = this._s;
+    const cam = this.g.camera, D = (this.genDim && this.genDim[c.type] && this.genDim[c.type].box) || { bus: [1.6, 2.9, 4.2], truck: [1.3, 3.0, 3.0], bike: [0.3, 1.6, 0.8], sedan: [1.0, 1.4, 2.3] }[c.type] || [1.0, 1.4, 2.3], v = this._s;
     let x0 = 1e9, x1 = -1e9, y0 = 1e9, y1 = -1e9;
     for (let i = 0; i < 8; i++) {
       v.set(c.x + (i & 1 ? D[0] : -D[0]), c.y + (i & 2 ? D[1] : 0), c.z + (i & 4 ? D[2] : -D[2])).project(cam);
@@ -512,6 +519,7 @@ class RacerWorld {
     const dirty = new Set();
     let k = 0;
     const SH = { sedan: [3.4, 6.6], truck: [4.2, 11], bus: [4.4, 13], bike: [1.4, 3.2], rival: [3.4, 6.6] };
+    if (this.genDim) for (const t in this.genDim) SH[t] = this.genDim[t].sh;
     for (const c of this.cars) {
       if (!c.on) continue;
       c.age += dt;

diff --git a/arcade/tools/scenarios/cohesion-traffic.js b/arcade/tools/scenarios/cohesion-traffic.js
@@ -39,7 +39,7 @@ module.exports = async (cap) => {
       // (three on the main road ahead, keeping pace with the rig, so the band shows them whole; the rest on the service lanes)
       const pace = (type, x, z, dir) => { const c = w.spawn(type, "M", { special: "show", dir, x, tx: x, z, speed: 0, y: 0 }); if (c) c.plan = (cc, dt, sp) => { cc.speed = dir > 0 ? sp : -sp; }; };
       // (the answers' discs stand over the road from about 15 ahead of the rig: these keep below them)
-      pace("sedan", -3.75, -4, 1); pace("truck", 4.4, -6, 1); pace("bus", -7.4, -8.5, -1); // (below the lane badges: what comes under them slips away while a gate is up)
+      pace("sedan", -3.6, -1.5, 1); pace("truck", 4.4, -6, 1); pace("bus", -7.4, -8.5, -1); // (below the lane badges: what comes under them slips away while a gate is up. The car is the compact one of Phase 6, taller: it stands nearer)
       put("sedan", "R", 6.6, -40, 14); put("truck", "R", 8.0, -75, 13);
       put("sedan", "L", -6.6, -60, 20); put("bus", "L", -8.0, -90, 18);
       w.spawnT = { R: 99, L: 99, H: 0.3 };

diff --git a/arcade/docs/combat-pass/final/STATUS.md b/arcade/docs/combat-pass/final/STATUS.md
@@ -1,0 +1,25 @@
+# Phase 6: the last fix round (running note)
+
+Brief: the lead's rulings on the final review (r1). One commit per fix; regressions after each.
+
+| # | Ruling | State |
+|---|---|---|
+| 1 | Boss Rush: damage popups in their own lane, caption held where they would meet; "LIGHTNING!" not clipped | in progress |
+| 2 | Risk Blaster low health: beating red frame round the band, smoke and flame on the visible hull; Nest Egg Run's last-life frame stronger | to do |
+| 3 | Final Exam examiner: a hard-edged chest core over the smear, cool key and magenta rim (hitStop calls untouched) | to do |
+| 4 | Risk Blaster's ambient ships read as ships (lights as points, less tint and bloom, further into the haze) | to do |
+| 5 | RANK UP! on an opaque bordered plate, a dark scrim over the tiles | to do |
+| 6 | Exam passed: question UI and NEXT cleared before the banner and SKIP; toast held until the cinematic ends | to do |
+| - | Cheap ones: crash bloom cap, wash-outs capped, bonus line inside the screen, cracks off the text, lane D props, Memory Bank blob | to do |
+| T | The lead's remade car and bus (cbf7de1) merged; traffic retuned | done |
+
+## Notes
+
+- **Traffic (T).** Merged cbf7de1 (fast-forward). The manifest (`src/js/03a-files.js`) re-made for the two new file
+  sizes. The car is a compact city car now: its length 4.5 -> 3.6 (1.92 wide, 1.64 tall, under the rig's size); its
+  own room in its lane, shadow and badge box (`RACER_GEN_DIM`); its red tail bar raised onto the model's own light bar
+  (0.47 -> 0.58 of its height); the lamps at the corners of a rounded nose or tail are placed on the skin there, and
+  a narrow nose's lamps go out toward its corners. Checked by numbers (each lamp stands on its body) and by eye.
+  The bus kept its length (8.4); its lamps sit on it. `cohesion-traffic.js`: the paced car stands nearer (taller now,
+  it hid under badge A, as the game means it to). Re-captured cohesion 04, 05, 06. Racer skies and near miss: with
+  the racer fixes below. Regression racer IDENTICAL from disk and served.
